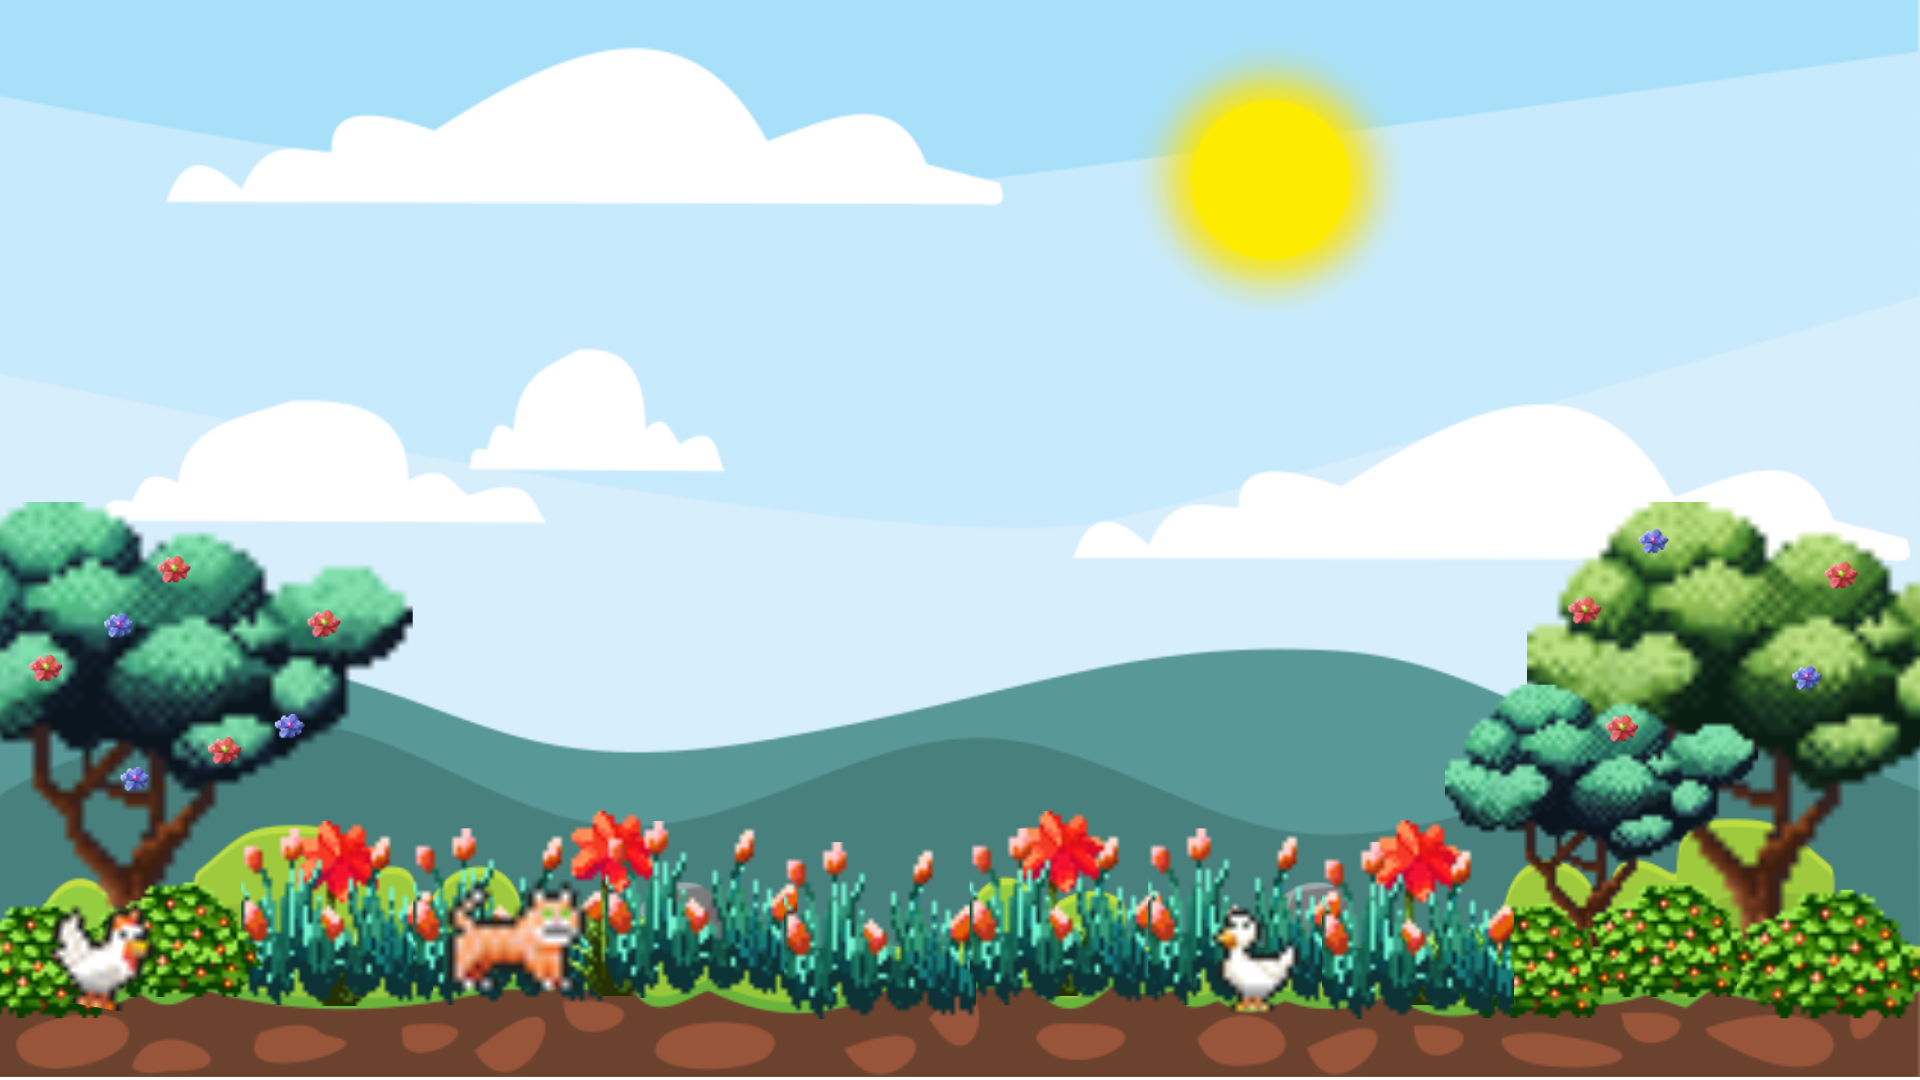
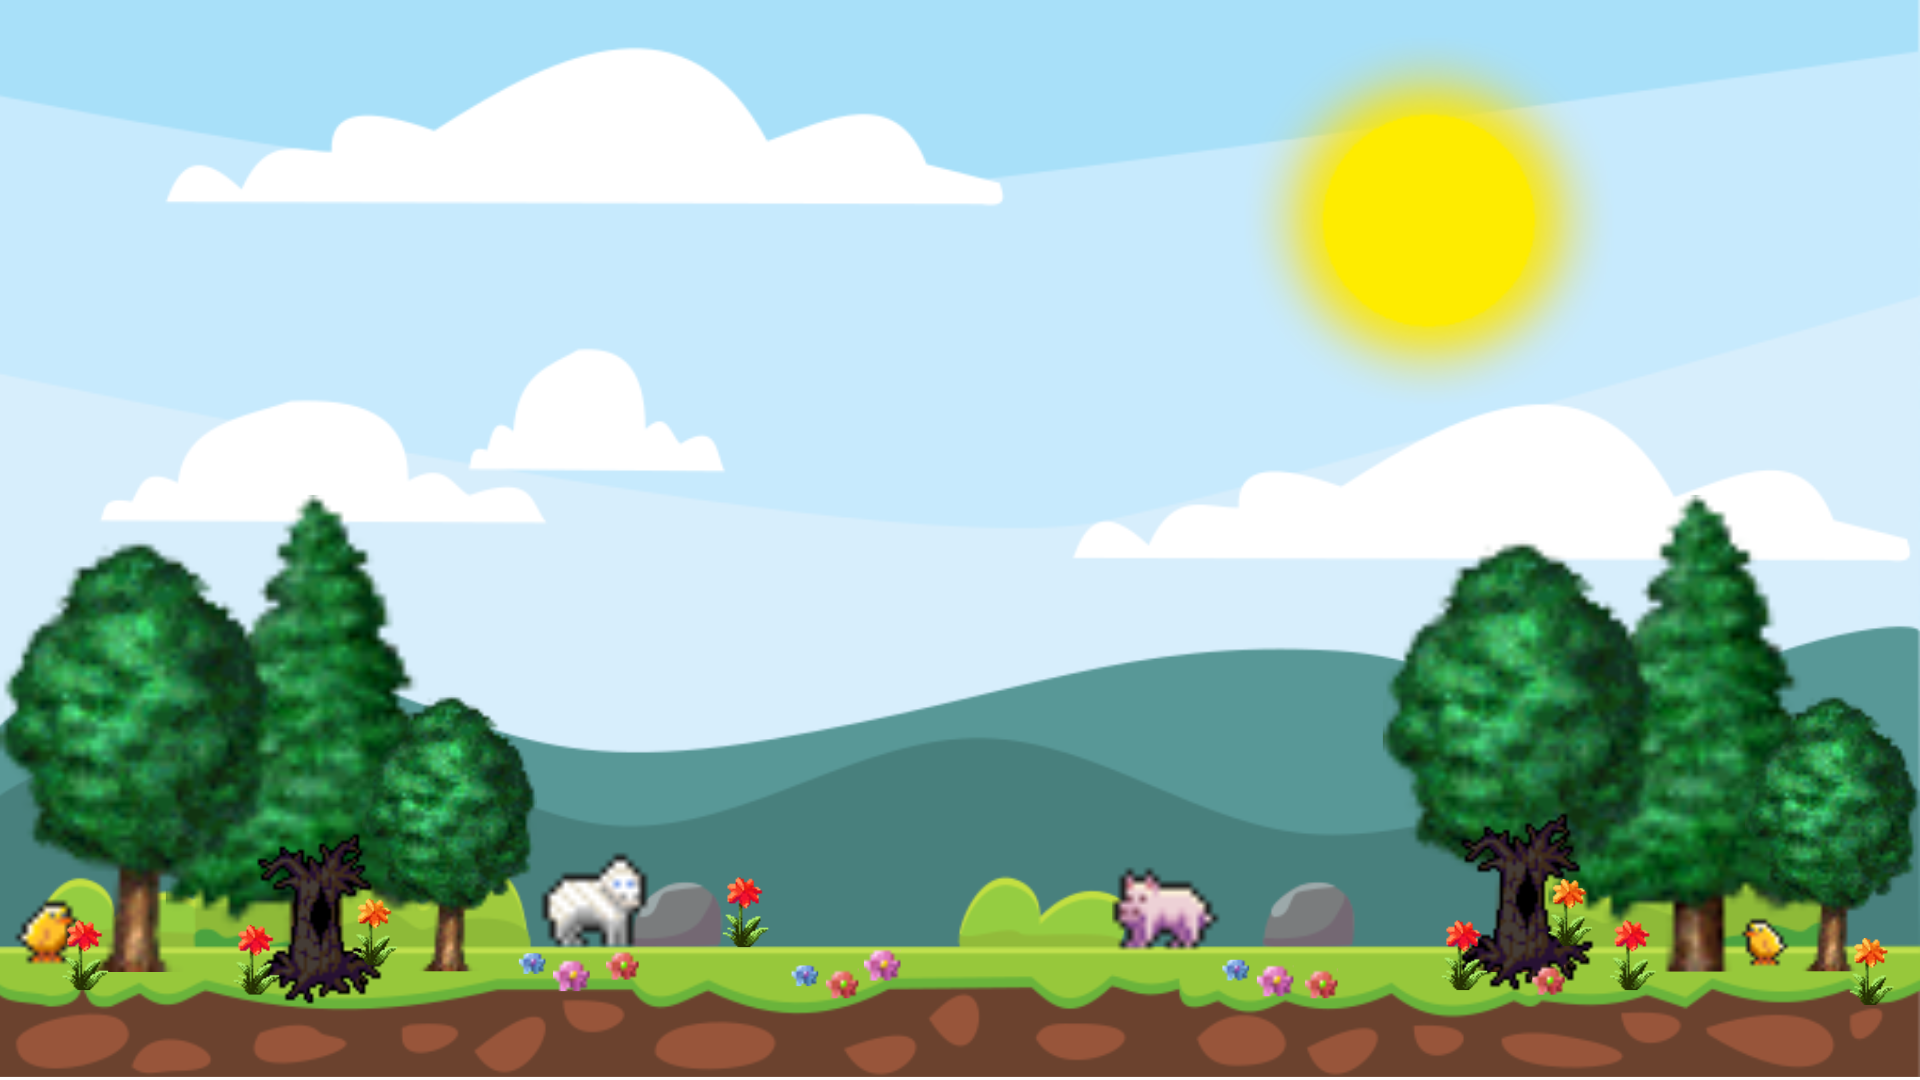
added new stages and ui fixes
67

diff --git a/lwjgl3/src/main/java/inf1009/p63/flappyearth/game/scenes/GameScene.java b/lwjgl3/src/main/java/inf1009/p63/flappyearth/game/scenes/GameScene.java
@@ -61,6 +61,7 @@ public class GameScene extends Scene {
     private static final String STAGE_ONE_BACKGROUND_KEY = "backgrounds/stage1_background.png";
     private static final String STAGE_TWO_BACKGROUND_KEY = "backgrounds/stage2_background.png";
     private static final String STAGE_THREE_BACKGROUND_KEY = "backgrounds/stage3_background.png";
+    private static final String STAGE_FOUR_BACKGROUND_KEY = "backgrounds/stage4_background.png";
 
     private final SceneManager sceneManager;
     private final GameContextManager context;
@@ -114,11 +115,12 @@ public class GameScene extends Scene {
     private static final float OIL_BLOT_DURATION = 5f;
     private static final float FACTORY_SMOKE_DURATION = 5f;
     private static final float FACTORY_SMOKE_ALPHA = 0.9f;
-    private static final float FACTORY_JUMP_INTERVAL_SECONDS = 1f;
+    private static final float FACTORY_JUMP_INTERVAL_SECONDS = 0.5f;
     private static final float TRASH_PILE_SHAKE_DURATION = 5f;
     private static final float TRASH_PILE_SHAKE_MAGNITUDE = 50f;
     private static final float DEBUFF_POPUP_MAX_SECONDS = 5f;
-    private static final float DEBUFF_PILLS_TOP_GAP = 116f;
+    private static final float HUD_STAGE_TITLE_OFFSET = 24f;
+    private static final float HUD_STAGE_TO_DEBUFF_GAP = 52f;
     private static final int OIL_SPLOTCH_COUNT = 10;
     private final float[] oilSplotchXNorm = new float[OIL_SPLOTCH_COUNT];
     private final float[] oilSplotchYNorm = new float[OIL_SPLOTCH_COUNT];
@@ -771,13 +773,6 @@ List<DebuffOverlayInfo> debuffOverlayInfo = buildDebuffOverlayList(player);
             pauseBatch.draw(instructionsTexture, panelX, panelY, panelW, panelH);
         }
 
-        float hudScale = screenH / 1080f;
-        String prompt = "Press SPACE to continue";
-        introLayout.setText(introFont, prompt);
-        float x = (screenW - introLayout.width) * 0.5f;
-        float y = 54f * hudScale;
-        introFont.draw(pauseBatch, introLayout, x, y);
-
         pauseBatch.end();
     }
 
@@ -808,7 +803,13 @@ List<DebuffOverlayInfo> debuffOverlayInfo = buildDebuffOverlayList(player);
         if (GameSceneId.STAGE_TWO.id().equals(sceneId)) {
             return STAGE_TWO_BACKGROUND_KEY;
         }
-        return STAGE_THREE_BACKGROUND_KEY;
+        if (GameSceneId.STAGE_THREE.id().equals(sceneId)) {
+            return STAGE_THREE_BACKGROUND_KEY;
+        }
+        if (GameSceneId.STAGE_FOUR.id().equals(sceneId)) {
+            return STAGE_FOUR_BACKGROUND_KEY;
+        }
+        return STAGE_ONE_BACKGROUND_KEY;
     }
 
     private void generateOilSplotchPattern() {
@@ -907,7 +908,8 @@ private void renderDebuffCountdownText(SpriteBatch hudBatch,
     float pillX   = (screenW - pillW) * 0.5f;
 
     float barY = screenH - pad - (18f * s);
-    float firstPillY = barY - (DEBUFF_PILLS_TOP_GAP * s);
+    float stageTitleY = barY - (HUD_STAGE_TITLE_OFFSET * s);
+    float firstPillY = stageTitleY - (HUD_STAGE_TO_DEBUFF_GAP * s) - pillH;
 
     hudBatch.end();
 

diff --git a/lwjgl3/src/main/java/inf1009/p63/flappyearth/game/core/FlappyEarthSetup.java b/lwjgl3/src/main/java/inf1009/p63/flappyearth/game/core/FlappyEarthSetup.java
@@ -41,9 +41,10 @@ public class FlappyEarthSetup implements GameSetup {
         contextManager.getInputOutputManager().registerInputDevice(new TouchInputDevice());
 
         StagePlan stagePlan = new StagePlan(Arrays.asList(
-            new StageConfig(GameSceneId.STAGE_ONE.id(), "Stage 1: Impact Zone", "Collect 1 good item", 0.20f, 0.45f, 0.95f, 0.70f, 1f),
-            new StageConfig(GameSceneId.STAGE_TWO.id(), "Stage 2: Recovery Line", "Collect 1 more item", 0.98f, 0.94f, 0.62f, 0.50f, 1.15f),
-            new StageConfig(GameSceneId.STAGE_THREE.id(), "Stage 3: New Earth", "Final stage", 0.46f, 0.72f, 0.50f, 0f, 1.30f)
+            new StageConfig(GameSceneId.STAGE_ONE.id(), "A Broken World", "Collect 1 good item", 0.20f, 0.45f, 0.95f, 0.70f, 1f),
+            new StageConfig(GameSceneId.STAGE_TWO.id(), "Glimmer of Hope", "Collect 1 more item", 0.98f, 0.94f, 0.62f, 0.50f, 1.15f),
+            new StageConfig(GameSceneId.STAGE_THREE.id(), "Nature's Fruition", "Collect 1 more item", 0.70f, 0.86f, 0.58f, 0.25f, 1.22f),
+            new StageConfig(GameSceneId.STAGE_FOUR.id(), "A Blooming Renaissance", "Final stage", 0.46f, 0.72f, 0.50f, 0f, 1.30f)
         ));
         GameplayDimensions dimensions = GameplayDimensions.fromDisplaySettings(displaySettings);
 
@@ -53,6 +54,7 @@ public class FlappyEarthSetup implements GameSetup {
         contextManager.getAssetManager().load("backgrounds/stage1_background.png", Texture.class);
         contextManager.getAssetManager().load("backgrounds/stage2_background.png", Texture.class);
         contextManager.getAssetManager().load("backgrounds/stage3_background.png", Texture.class);
+        contextManager.getAssetManager().load("backgrounds/stage4_background.png", Texture.class);
         contextManager.getAssetManager().load("backgrounds/smoke.png", Texture.class);
         contextManager.getAssetManager().load("backgrounds/smog_cloud.png", Texture.class);
         contextManager.getAssetManager().load("bird/flappy00.png", Texture.class);

diff --git a/lwjgl3/src/main/java/inf1009/p63/flappyearth/game/managers/HudRenderer.java b/lwjgl3/src/main/java/inf1009/p63/flappyearth/game/managers/HudRenderer.java
@@ -102,7 +102,7 @@ public class HudRenderer {
 
         layout.setText(smallFont, stageTitle);
         float titleX = (screenW - layout.width) / 2f;
-        float titleY = barY - 6f * s;
+        float titleY = barY - 24f * s;
         drawShadowed(batch, smallFont, stageTitle, titleX, titleY, s);
 
         String scoreText = "SCORE: " + scoreManager.getCurrentScore();

diff --git a/lwjgl3/src/main/java/inf1009/p63/flappyearth/game/scenes/GameSceneId.java b/lwjgl3/src/main/java/inf1009/p63/flappyearth/game/scenes/GameSceneId.java
@@ -6,6 +6,7 @@ public enum GameSceneId {
     STAGE_ONE,
     STAGE_TWO,
     STAGE_THREE,
+    STAGE_FOUR,
     GAME_OVER;
 
     public String id() {
